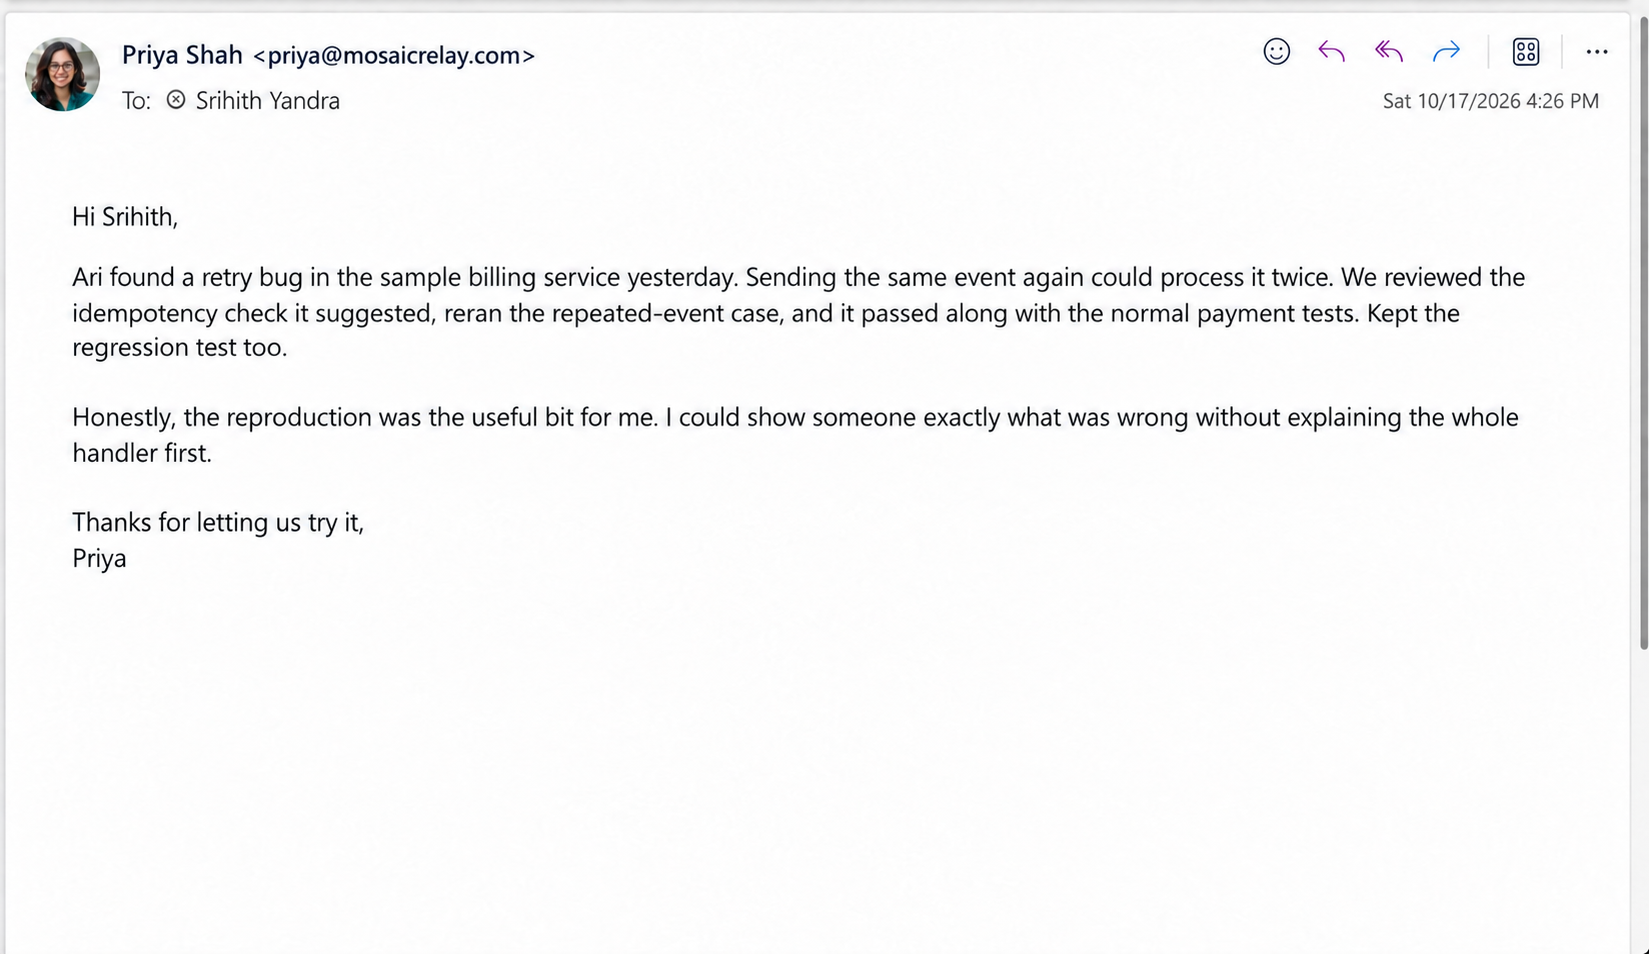
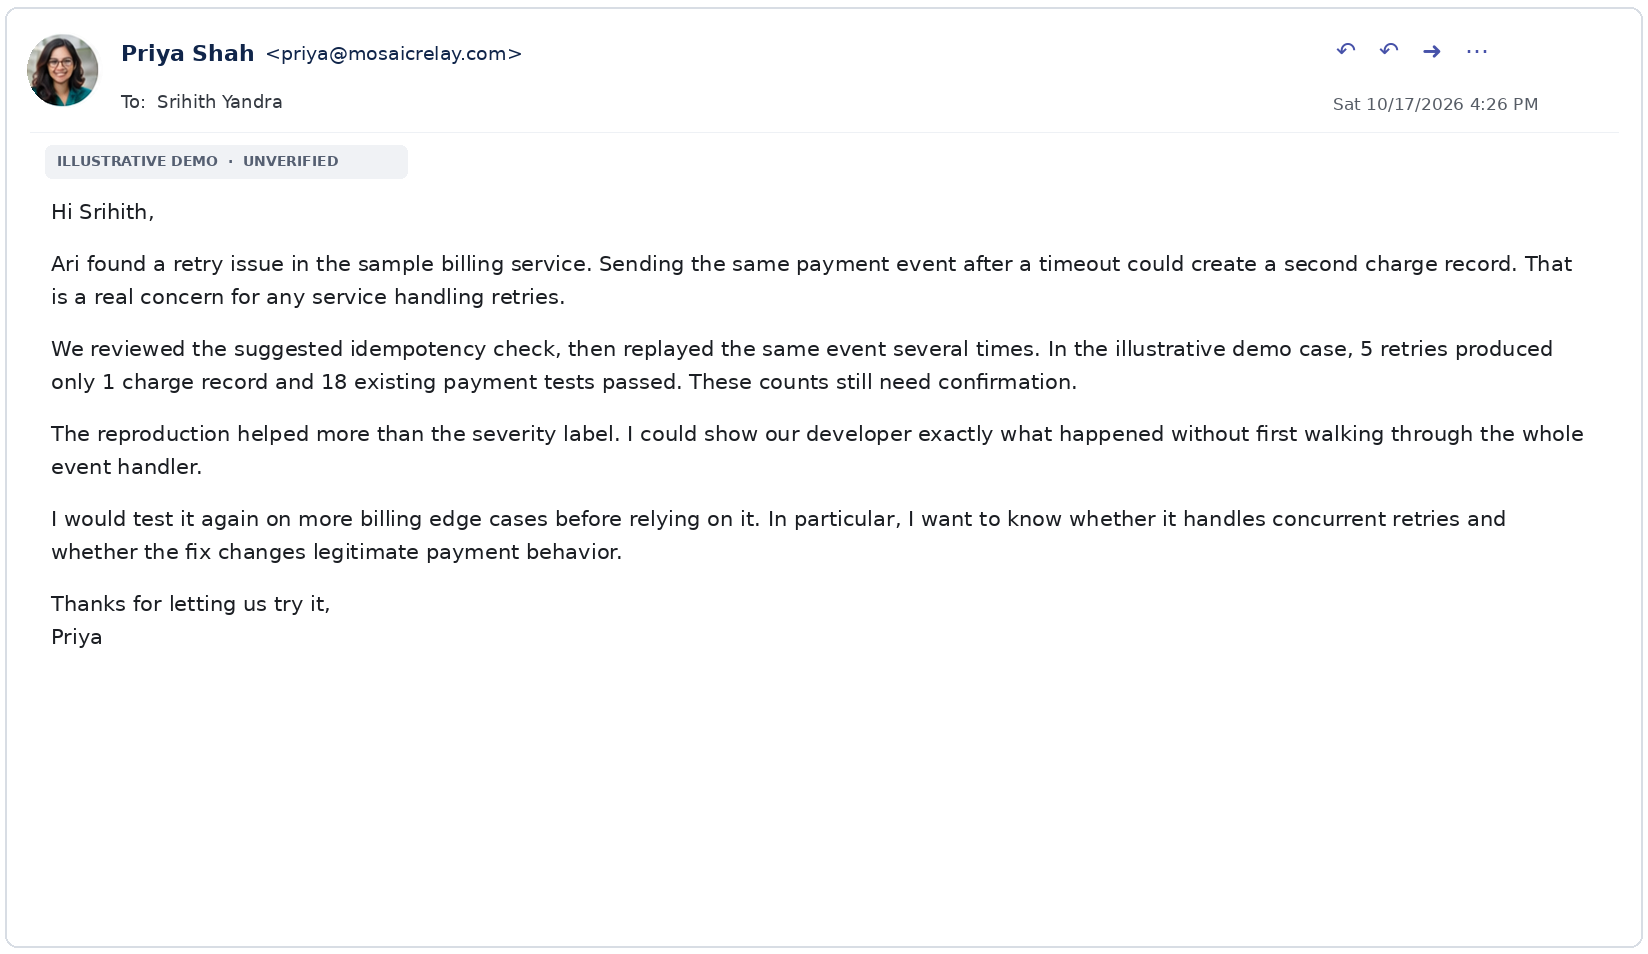
fix(presentation): refresh remaining email screenshots and summaries

diff --git a/public/index.html b/public/index.html
@@ -912,7 +912,7 @@
     .priority-strip b{color:#ffb09f;font-size:15px}
     .contribution-source{display:block;font-size:14px;line-height:1.4;color:#ffb09f;margin-top:18px}
     .feedback-slide .validation-columns{grid-template-columns:1fr}
-    .feedback-slide .validation-box{height:375px;padding:20px 24px}
+    .feedback-slide .validation-box{height:410px;padding:20px 24px}
     .feedback-slide .feedback-gallery{grid-template-columns:repeat(5,minmax(0,1fr));gap:16px}
     .feedback-slide .feedback-preview{position:relative;aspect-ratio:1649/954;isolation:isolate}
     .feedback-slide .feedback-preview img{width:100%;height:100%;object-fit:fill}
@@ -1031,6 +1031,8 @@
     .feedback-slide .email-result-summary{display:grid;grid-template-columns:repeat(4,minmax(0,1fr));gap:24px;margin-top:16px;padding-top:16px;border-top:1px solid #73554c}
     .feedback-slide .email-result-summary b{display:block;font:600 27px/1.15 "Space Grotesk",sans-serif;letter-spacing:-.025em;color:#ffb09f}
     .feedback-slide .email-result-summary span{display:block;font-size:15px;line-height:1.35;color:#e3cec8;margin-top:6px}
+    .feedback-slide .email-gallery-point{font-size:17px;line-height:1.35;margin-top:12px;color:#fff}
+    .feedback-slide .email-gallery-point small{display:block;font-size:13px;line-height:1.4;color:#d6bfb7;margin-top:6px}
   </style>
 </head>
 <body>
@@ -1333,26 +1335,26 @@ REFERENCE, NOT SPOKEN: Presentation keyboard navigation and reduced motion are d
         </div>
       </section>
 
-      <section class="slide dark customer-story-slide feedback-slide" data-note="SPOKEN: Five emails report billing retries, SQL injection, workspace access, error disclosure and upload-path fixes. These aren’t independently audited. Samira requested clearer permissions and code-processing explanations. That’s our next improvement. Jordan reports about twenty minutes, 78 regression tests and twelve new injection tests passing in staging.
+      <section class="slide dark customer-story-slide feedback-slide" data-note="SPOKEN: Four illustrative demos cover billing retries, workspace access, error disclosure and upload paths; their counts are unverified examples. Samira’s example asks for permissions, processing and retention clarity. Jordan separately reports about twenty minutes, 78 regression tests and twelve new injection tests passing in staging. His results aren’t independently audited.
 
-REFERENCE, NOT SPOKEN: All five October17 original screenshots preserved; permission to present confirmed by current human user October17,2026. Outcomes are reported by email, not independently audited artifacts or paid commitments. Jordan screenshot replaced with current user-supplied email: fiveengineers with no dedicated security person,anexistingSQLinjectioninnormalclient-appcode missed by regularreviews;fullstacktraceandexactline;reviewedparameterized-queryfix inabout20minutesendtoend;HTTP400blockwithlegitimatesearchworking;78regressiontests and12newpassinginjectiontests, in staging not production. These are reported observations, not independently rerun results; the few-hours alternative is Jordan’s estimate, not a measured baseline. Sender reports normal process uses manual reviews,SASTandspotchecks;interest inmore services is not a paid commitment. Requested PR integration and reduced noise/grouping remain feedback, not delivered claims. Samira asks for permissions and processing clarity; marked next planned improvement, not delivered. VC feedback remains pending in notes only. Evidence slots: participant role/sample, observed time, accepted fixes, baseline, usability and signed commitments; do not invent. Sources docs/prototype-feedback.md." data-spoken="Five emails report billing retries, SQL injection, workspace access, error disclosure and upload-path fixes. These aren’t independently audited. Samira requested clearer permissions and code-processing explanations. That’s our next improvement. Jordan reports about twenty minutes, 78 regression tests and twelve new injection tests passing in staging.">
+REFERENCE, NOT SPOKEN: Four latest supplied screenshots explicitly label themselves ILLUSTRATIVE DEMO / UNVERIFIED. Their examples and counts are not verified customer outcomes: Priya 5 retries/1 charge record/18 payment tests; Maya 22 permission tests; Alex 34 existing error tests/5 new negative cases; Samira 10 normal-file checks. Preserve these labels and do not aggregate them as customer metrics. Jordan remains the separate reported staging email. Latest assets supersede earlier screenshots; permission to present confirmed by current human user October17,2026. Outcomes are reported by email, not independently audited artifacts or paid commitments. Jordan screenshot replaced with current user-supplied email: fiveengineers with no dedicated security person,anexistingSQLinjectioninnormalclient-appcode missed by regularreviews;fullstacktraceandexactline;reviewedparameterized-queryfix inabout20minutesendtoend;HTTP400blockwithlegitimatesearchworking;78regressiontests and12newpassinginjectiontests, in staging not production. These are reported observations, not independently rerun results; the few-hours alternative is Jordan’s estimate, not a measured baseline. Sender reports normal process uses manual reviews,SASTandspotchecks;interest inmore services is not a paid commitment. Requested PR integration and reduced noise/grouping remain feedback, not delivered claims. Samira’s request in the illustrative demo asks for permissions, processing and retention clarity; marked next planned improvement, not delivered. VC feedback remains pending in notes only. Evidence slots: participant role/sample, observed time, accepted fixes, baseline, usability and signed commitments; do not invent. Sources docs/prototype-feedback.md." data-spoken="Four illustrative demos cover billing retries, workspace access, error disclosure and upload paths; their counts are unverified examples. Samira’s example asks for permissions, processing and retention clarity. Jordan separately reports about twenty minutes, 78 regression tests and twelve new injection tests passing in staging. His results aren’t independently audited.">
         <div class="slide-head"><span class="brand-mini"><img class="brand-ant" src="ari-ant-mark.png" alt="" aria-hidden="true">User Understanding / Evidence of Need</span><span class="slide-num">14</span></div>
         <span class="build-trigger" data-build="1"></span>
         <div class="customer-phase cp1">
           <h2>Feedback. <span class="accent">Evidence.</span></h2>
-          <p class="feedback-summary">Prototype testers reported fixes that worked.</p>
+          <p class="feedback-summary">Four illustrative demos. One reported staging result.</p>
           <div class="validation-columns">
             <article class="validation-box prototype-validation">
-              <h3>Five reported prototype outcomes</h3>
-              <p>Reported: weakness reproduced → repair reviewed → checks passed</p>
+              <h3>What the examples cover</h3>
+              <p>Four demo examples are unverified; Jordan’s staging result is separately reported.</p>
               <div class="feedback-gallery" aria-label="Five supplied prototype feedback emails">
-                <figure class="feedback-email"><div class="feedback-preview"><img src="feedback/priya.png" alt="Email from Priya Shah reporting a billing retry fix and passing payment tests"></div><figcaption>Priya · Billing retries</figcaption></figure>
-                <figure class="feedback-email is-featured"><div class="feedback-preview"><img src="feedback/jordan.png" alt="Jordan reports five engineers without a dedicated security person, an existing SQL injection missed in normal reviews, a parameterized-query fix in about 20 minutes, and 78 regression plus 12 new injection tests passing in staging"></div><figcaption>Jordan · SQL injection</figcaption></figure>
-                <figure class="feedback-email"><div class="feedback-preview"><img src="feedback/maya.png" alt="Email from Maya Chen reporting cross-workspace requests blocked while regular invites worked"></div><figcaption>Maya · Workspace access</figcaption></figure>
-                <figure class="feedback-email"><div class="feedback-preview"><img src="feedback/alex.png" alt="Email from Alex Rivera reporting a generic error response and passing error tests"></div><figcaption>Alex · Error disclosure</figcaption></figure>
-                <figure class="feedback-email"><div class="feedback-preview"><img src="feedback/samira.png" alt="Email from Samira Okafor reporting traversal rejected and normal uploads passed, and requesting clearer permission information"></div><figcaption>Samira · Upload paths</figcaption></figure>
+                <figure class="feedback-email"><div class="feedback-preview"><img src="feedback/priya.png" alt="Illustrative, unverified Priya demo: five retries produce one charge record and 18 existing payment tests pass; concurrent retries and payment behavior need further checks."></div><figcaption>Priya · Billing retries</figcaption><p class="email-gallery-point">5 retries → 1 charge<small>18 payment tests · illustrative</small></p></figure>
+                <figure class="feedback-email is-featured"><div class="feedback-preview"><img src="feedback/jordan.png" alt="Jordan reports five engineers without a dedicated security person, an existing SQL injection missed in normal reviews, a parameterized-query fix in about 20 minutes, and 78 regression plus 12 new injection tests passing in staging"></div><figcaption>Jordan · SQL injection</figcaption><p class="email-gallery-point">~20 minutes end to end<small>Reported staging result</small></p></figure>
+                <figure class="feedback-email"><div class="feedback-preview"><img src="feedback/maya.png" alt="Illustrative, unverified Maya demo: cross-workspace invites denied, authorized invites work; 22 permission tests are an example count, with repeat findings a follow-up concern."></div><figcaption>Maya · Workspace access</figcaption><p class="email-gallery-point">Cross-workspace invite denied<small>22 permission tests · illustrative</small></p></figure>
+                <figure class="feedback-email"><div class="feedback-preview"><img src="feedback/alex.png" alt="Illustrative, unverified Alex demo: generic error response with details retained in internal logs; 34 existing error tests and five new negative cases are example counts."></div><figcaption>Alex · Error disclosure</figcaption><p class="email-gallery-point">Generic errors; details logged<small>34 + 5 tests · illustrative</small></p></figure>
+                <figure class="feedback-email"><div class="feedback-preview"><img src="feedback/samira.png" alt="Illustrative, unverified Samira demo: traversal rejected and normal uploads work; ten normal-file checks are an example count. Requests permissions, processing and retention documentation."></div><figcaption>Samira · Upload paths</figcaption><p class="email-gallery-point">Traversal input rejected<small>10 normal-file checks · illustrative</small></p></figure>
               </div>
-              <p class="feedback-next"><b>Next improvement:</b> clarify repository permissions and code processing.<br><span>Samira’s request · planned, not yet validated</span></p><p class="feedback-cue">Next: a closer look at Jordan's result →</p>
+              <p class="feedback-next"><b>Next improvement:</b> clarify permissions, code processing and retention.</p><p class="feedback-cue">Next: a closer look at Jordan's result →</p>
             </article>
           </div>
         </div>

diff --git a/tests/test_presentation_evidence.py b/tests/test_presentation_evidence.py
@@ -66,7 +66,8 @@ class PresentationEvidenceTests(unittest.TestCase):
         self.assertIn('No causal link to AI coding established', self.slides[3])
         self.assertIn('Illustrative liability scenario', self.slides[2])
         self.assertNotIn('class="vc-placeholder"', self.slides[13])
-        self.assertIn('planned, not yet validated', self.slides[13])
+        self.assertIn('Samira’s request in the illustrative demo', self.slides[13])
+        self.assertIn('Four illustrative demos. One reported staging result.', self.slides[13])
         self.assertIn('Presentation access', self.slides[12])
 
     def test_plans_remain_goals_with_decision_gates(self):

diff --git a/docs/prototype-feedback.md b/docs/prototype-feedback.md
@@ -52,3 +52,10 @@ Per the user’s latest request, all yellow highlights and repeated per-email ga
 Replaced both Jordan views with user-supplied `codex-clipboard-40f4cf56-2f8e-4a79-ad25-9a0865020ee5.png`. This supersedes the prior Jordan wording. It reports an existing SQL injection in client-app staging code, missed by normal reviews, reproduced with a trace pointing to input concatenation. A parameterized-query repair took about20minutes including review/change/retest; the injection now returns400while legitimate search works.78regressiontests and12newinjectiontests passed. The team has5engineers and no dedicated security person; their normal process includes manual reviews,SASTandspotchecks.
 
 The clean featured summary now shows5engineers / ~20minutes /400response /78+12passing, followed by the exact quote: “Overall, this was a helpful run and I can see us using it again.” More-services interest is not a paid commitment. Requested PR integration and noise reduction/grouping are future improvement feedback, not delivered capabilities. The few-hours alternative remains the sender's estimate, not a measured baseline or quantified percentage saving. These are email-reported outcomes, not independently rerun evidence. Original replacement pixels retained, no yellow highlights added.
+
+
+## Four replacement demo emails
+
+The latest user supplied Priya, Maya, Alex and Samira assets supersede their earlier screenshots. All four explicitly read “ILLUSTRATIVE DEMO · UNVERIFIED”; their counts are examples, not verified customer metrics. Priya: 5 retries, 1 charge record, 18 payment tests; concurrent retries and legitimate payment behavior remain follow-up checks. Maya: cross-workspace invite denied with authorized invites retained, 22 example permission tests; repeat findings are a concern. Alex: generic errors with internal details retained in logs, 34 existing plus 5 new example tests; requests related-alert grouping. Samira: traversal rejected, normal uploads retained, 10 example normal-file checks; requests permissions, processing and retention documentation before considering a broader trial.
+
+The gallery and spoken script now distinguish these four illustrative cases from Jordan’s unchanged reported staging email. No tests described in these emails were executed by this editor, and illustrative counts must not be summed into a customer-results total.

diff --git a/docs/presentation-qa.md b/docs/presentation-qa.md
@@ -222,3 +222,9 @@ User requested removal of the DEMO REPLAY / Actual interface screenshots / Scrip
 Replaced Jordan's image byte-for-byte with the latest user attachment and updated slide14 in the19-slide deck. A clean four-column summary shows5engineers without dedicated security,~20minutes trace-to-retest,HTTP400injection blocking,and78regressionplus12newinjectiontests passing. The closing quote matches the new email exactly. Results remain attributed to Jordan's staging report; no assessment was rerun. Other slides and spoken passages are preserved.
 
 All14Python tests anddiffcheckpassed. Chrome1280×720and960×540checks covered gallery/focus,allfourresultpoints,no yellow highlights,content above controls,rewind,and0pageerrors. Both sizes were captured and the desktop focus screenshot inspected. Source-image equality and slide-only scope were checked. Deployment is not claimed by this editor.
+
+## Four illustrative email replacements
+
+Replaced Priya, Maya, Alex and Samira assets with the latest supplied originals, preserving their ILLUSTRATIVE DEMO / UNVERIFIED labels. Gallery points match the new examples, with counts explicitly illustrative. Jordan's latest email/focus remain unchanged; his gallery point is separately identified as reported staging. Narration and source notes distinguish those categories and include retention documentation in Samira's request. Only slide14content changed in the19-slide deck.
+
+14Python tests anddiffcheckpass. Chrome gallery has five loaded images and summary points, no container clipping or control overlap at1280×720and960×540; both screenshots captured, final desktop visually inspected. Focus/rewind and0pageerrors checked. Initial visual check caught lower-caption clipping; increased gallery container and removed a redundant caption line, then rechecked. No product tests or example-count verification executed; deployment not claimed.

diff --git a/docs/speaker-script.md b/docs/speaker-script.md
@@ -58,7 +58,7 @@ Here’s our prototype replay: choose a repository, inspect the ownership issue,
 
 ## Slide 14 · Sai
 
-Five emails report billing retries, SQL injection, workspace access, error disclosure and upload-path fixes. These aren’t independently audited. Samira requested clearer permissions and code-processing explanations. That’s our next improvement. Jordan reports about twenty minutes, 78 regression tests and twelve new injection tests passing in staging.
+Four illustrative demos cover billing retries, workspace access, error disclosure and upload paths; their counts are unverified examples. Samira’s example asks for permissions, processing and retention clarity. Jordan separately reports about twenty minutes, 78 regression tests and twelve new injection tests passing in staging. His results aren’t independently audited.
 
 ## Slide 15 · Sai
 

diff --git a/docs/ai4-timing-pass.md b/docs/ai4-timing-pass.md
@@ -14,7 +14,7 @@ Speakers: Sarosh1–6; Srihith7–13, including prototype13; Sai14–18; Sarosh1
 11: Separate Defense Lab screenshot,24/7monitoring aim, rechecks and human-controlled recommendations. No RL performance statistics spoken.
 12: Competitor map, workflow/tradeoffs, then pitch feedback.
 13: Srihith prototype replay/demo.
-14: Five reported outcomes, Samira improvement, then Jordan focus.
+14: Four illustrative demos and Samira’s documentation request, then Jordan’s separately reported staging result.
 15: Prices, unit economics, forecast milestones, shared tools/funding.
 16: Market proxy, segment, target.
 17: Adoption and recruitment.
